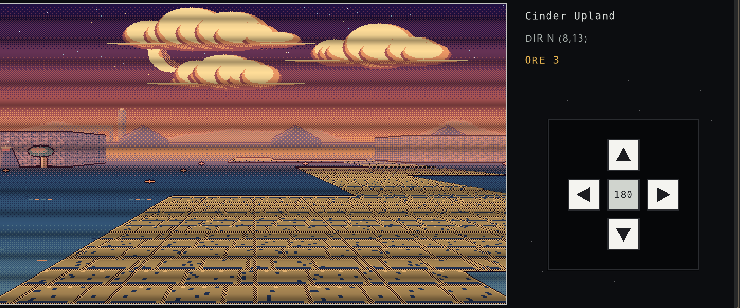
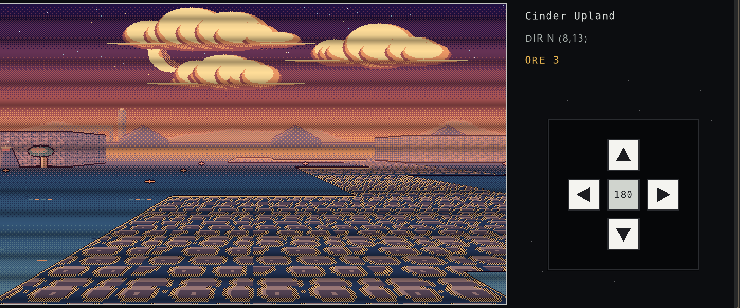
Revert "overworld: lay the road and mine floor as staggered slab courses"
This reverts commit e1f98d72ded98d1933edac27665f0c19ca2e1282.

Changed region(s): [[0.0, 0.526, 0.6838, 0.9935], [0.3108, 0.4968, 0.373, 0.526]]

diff --git a/cpp/ui/Overworld.cpp b/cpp/ui/Overworld.cpp
@@ -1222,43 +1222,41 @@ void ShellView::RenderPlanetSurfacePixels(const Simulation& sim) {
       "................................",
   };
   static constexpr TileTex32 kStoneWallTex = TileTex32::FromArt(kStoneWallArt);
-  // 242-row surface roads and underground flagstones: four staggered courses of
-  // wide slabs, each course a stone face with a shadowed underside and one ink
-  // seam row ('.'=ink joint, ':'=shadow under the slab above, '+'=stone face,
-  // '#'=chipped sunlit rim)
+  // Clouds of Xeen irregular rounded riverstone / cobblestone road tiles
+  // ('.'=crisp dark stone outline, ':'=warm earth mortar, '+'=stone face, '#'=sunlit stone crown)
   static constexpr char kCobbleRoadArt[32][33] = {
-      ".++++#++++++.++#++++#++:+.++++++",
-      ".+++++++++++.++++:+++++++.++++++",
-      ".+++:+++++++.:+++++++++++.++++++",
-      ".+++++++++++.++++++++++++.++++++",
-      ".++:++++++++.++++++:+++++.++++++",
-      ".+++++++++++.++:+++++++++.++++++",
-      ".::::::::::+.:::::::::::+.::::::",
-      "................................",
-      ".++++++++.+#++++#++++++.++#+++++",
-      ".+:++++++.++++++++:++++.++++++++",
-      ".++++++:+.+++++++++++++.++++++:+",
-      ".+++++++:.:++++++++++++.++++++++",
-      ".++++++++.+++++++++++++.++++++++",
-      ".++++++++.+++++++++++++.++++++++",
-      ".:::::::+.::::::::::::+.::::::::",
-      "................................",
-      ".++++.+#++++#++++.++++#:+:++++.+",
-      ".++++.+++++++++++.++++++++++++.+",
-      ".++++.:++++++:+++.++++++++++++.+",
-      ".++++.++++++++++:.++++++++++++.+",
-      ".++++.++++++++:++.++++++++++++.+",
-      ".:+++.+++++++++++.++++++++++++.+",
-      ".:::+.::::::::::+.:::::::::::+.:",
-      "................................",
-      ".++#++++#+++++.+++#++++#++++.++:",
-      ".+++++:+++++++.+++++++++++++.:++",
-      ".+++++++++++++.+:+++++++++++.+++",
-      ".+++++++++++++.++:++++++++:+.+++",
-      ".+++++++++++++.:++++++:+++++.:++",
-      ".+++++++++++++.+++++++++++++.+++",
-      ".::::::::::::+.::::::::::::+.:::",
-      "................................",
+      "::.#####.:::::.######.::::.###.:",
+      ":.#######.:::.########.::.#####.",
+      ":.#++++++.:.:.#+++++++.::.#++++.",
+      ":.#++#+++.:::.#+++#+++.::.#++++.",
+      "::.++++++.::::.+++++++.:::.++++.",
+      ":::......::::::.......:::::....:",
+      "::::::::::::::::::::::::::::::::",
+      "####.:::::.########.::::.#####.:",
+      "++++.::::.##########.::.######.:",
+      "+++..::::.#+++++++++.::.#+++++.:",
+      "++..:::::.#+++#+++++.::.#++#++.:",
+      "...:::::::.+++++++++.:::.+++++.:",
+      ":::::::::::.........:::::.....::",
+      "::::::::::::::::::::::::::::::::",
+      "::.######.::::.#######.::::.###.",
+      ":.########.::.#########.::.#####",
+      ":.#+++++++.::.#++++++++.::.#++++",
+      ":.#++#++++.::.#+++#++++.::.#++++",
+      "::.+++++++.:::.++++++++.:::.++++",
+      ":::.......:::::........:::::....",
+      "::::::::::::::::::::::::::::::::",
+      "#####.::::.######.::::.######.::",
+      "+++++.:::.########.::.#######.::",
+      "++++..:::.#+++++++.::.#++++++.::",
+      "+++..::::.#++#++++.::.#+++#++.::",
+      "....::::::.+++++++.:::.++++++.::",
+      ":::::::::::.......:::::......:::",
+      "::::::::::::::::::::::::::::::::",
+      "::.#######.::::.######.::::.###.",
+      ":.#########.::.########.::.#####",
+      ":.#++++++++.::.#+++++++.::.#++++",
+      "::.++++++++.:::.+++++++.:::.++++",
   };
   static constexpr TileTex32 kCobbleRoadTex = TileTex32::FromArt(kCobbleRoadArt);
   // Clouds of Xeen jagged faceted craggy mountain / boulder rock texture
@@ -2441,10 +2439,11 @@ void ShellView::RenderPlanetSurfacePixels(const Simulation& sim) {
     }
   }
 
-  // Pass 3: Shade road bevel rims and lay the stone tile in 16.16 fixed point along active spans
+  // Pass 3: Shade road bevel rims + world-anchored pebbles/dither in 16.16 fixed-point along active spans
   auto isCurbInk = [&](std::uint8_t v) -> bool {
     return v == inkOut || (v >= kInkFogBase && v <= kInkFogBase + 4u);
   };
+  const int stepParity = (planetSurface_.px + planetSurface_.py + planetSurface_.dir) & 1;
   const float baseWx = static_cast<float>(planetSurface_.px) + 0.5f;
   const float baseWy = static_cast<float>(planetSurface_.py) + 0.5f;
   for (int gy = 0; gy < kGndH; ++gy) {
@@ -2456,6 +2455,7 @@ void ShellView::RenderPlanetSurfacePixels(const Simulation& sim) {
     const float invScaleX = kScanLut.invScaleX[gy];
     activeFog = static_cast<int>(kScanLut.fogStep[gy]);
     activeInk = inkForFog(activeFog);
+    const bool allowPebble = (z < 3.4f);
 
     const float lat0 = (static_cast<float>(xStart) + 0.5f - static_cast<float>(cxMid)) * invScaleX;
     // 128 texels/tile at 480x288 (4x4 cobble repeats per cell -> crisp 1:1 PC-98 Clouds of Xeen stones!)
@@ -2524,38 +2524,38 @@ void ShellView::RenderPlanetSurfacePixels(const Simulation& sim) {
           } else {
             putPx(x, y, pathHi);
           }
-        } else {
-          // 242-row roads: four staggered courses of wide slabs laid across
-          // the receding bands of the lane. Rows 7, 15, 23 and 31 of the tile
-          // are the cross joints, so the joints march toward the horizon; the
-          // column of ink in each course is a saw-cut end joint.
+        } else if (biomeIdx == 0 || oceanWorld) {
+          // Classic PC-98 Clouds of Xeen rounded stone cobblestones set in rich earthy mortar!
           if (cob == 0u) {
-            // Joint: black up close, mixed to the ground before the fog.
-            putPx(x, y, (z < 2.6f) ? inkOut : inkForFog(activeFog));
+            putPx(x, y, (z < 2.6f) ? inkOut : pathDark);
           } else if (cob == 1u) {
-            // Shadow under the far edge of the slab above.
-            putPx(x, y, (biomeIdx == 0 || iceWorld) ? pathDark : rockDark);
+            putPx(x, y, (biomeIdx == 0) ? pathDark : rockDark);
           } else if (cob == 2u) {
-            // Slab body: one flat value, broken only by sparse pitting so the
-            // lanes read as dressed stone rather than a checkerboard.
-            const unsigned pit = (static_cast<unsigned>(gx) * 2654435761u) ^
-                                 (static_cast<unsigned>(gcy) * 40503u);
-            if ((pit & 63u) == 0u) {
-              putPx(x, y, rockDark);
-            } else if (iceWorld) {
-              // Ice: alternate courses carry the glacier's deeper blue so the
-              // slabs separate where pathMid and rockMid are the same value.
-              putPx(x, y, ((cobY >> 3) & 1) == 0 ? pathHi : pathMid);
-            } else {
-              putPx(x, y, pathMid);
-            }
-          } else if ((gx % 5) != 0) {
-            // Sunlit top rim, chipped every fifth texel so a worn edge reads
-            // instead of a painted stripe running to the horizon. roadStyle
-            // decides whether the slabs keep a bright or a weathered face.
-            putPx(x, y, iceWorld ? pathHi : (roadStyle == 0 ? pathHi : rockHi));
+            putPx(x, y, (roadStyle == 0) ? rockMid : pathMid);
           } else {
+            putPx(x, y, (roadStyle == 0) ? rockHi : pathHi);
+          }
+        } else if (iceWorld) {
+          // Frost-rimmed glacier cobblestones
+          if (cob == 0u) {
+            putPx(x, y, (z < 2.5f) ? inkOut : pathDark);
+          } else if (cob == 1u) {
+            putPx(x, y, pathDark);
+          } else if (cob == 2u) {
             putPx(x, y, pathMid);
+          } else {
+            putPx(x, y, accent1);
+          }
+        } else {
+          // Rock / Badlands: sun-baked rounded desert flagstones set in warm canyon dust
+          if (cob == 0u) {
+            putPx(x, y, (z < 2.5f) ? inkOut : pathDark);
+          } else if (cob == 1u) {
+            putPx(x, y, pathDark);
+          } else if (cob == 2u) {
+            putPx(x, y, (allowPebble || ((x + y + stepParity) & 1) == 0) ? pathMid : rockMid);
+          } else {
+            putPx(x, y, rockHi);
           }
         }
       }
